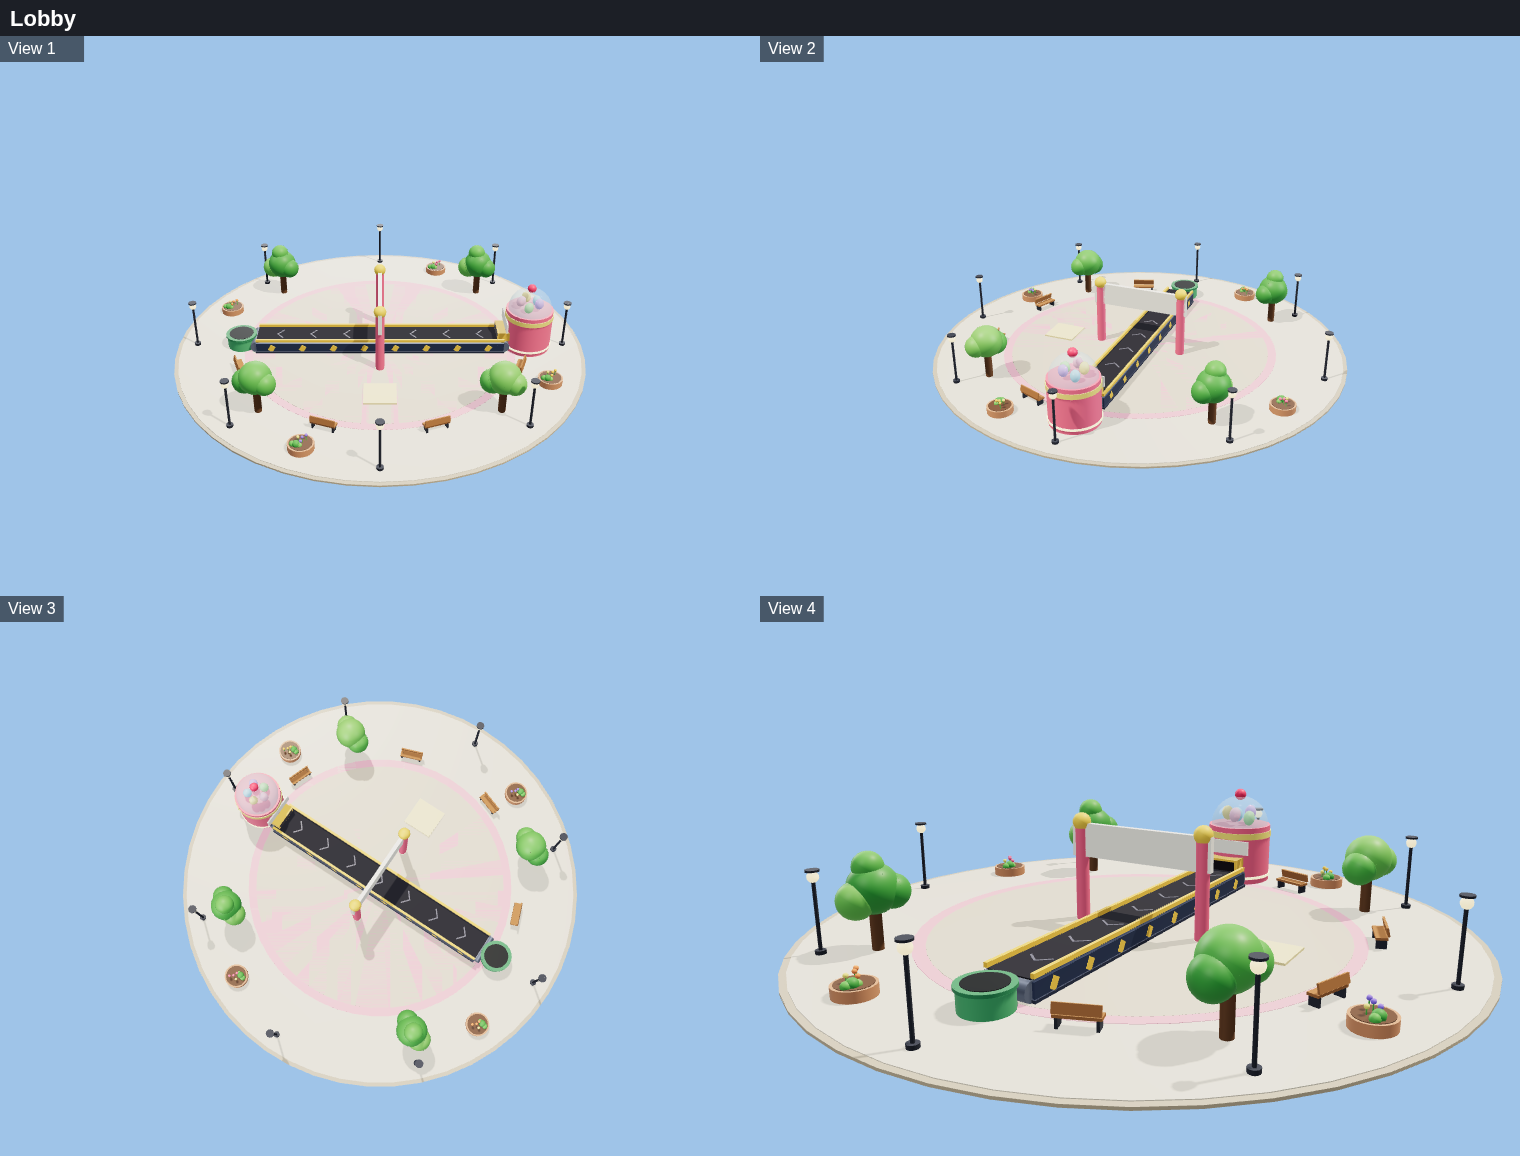
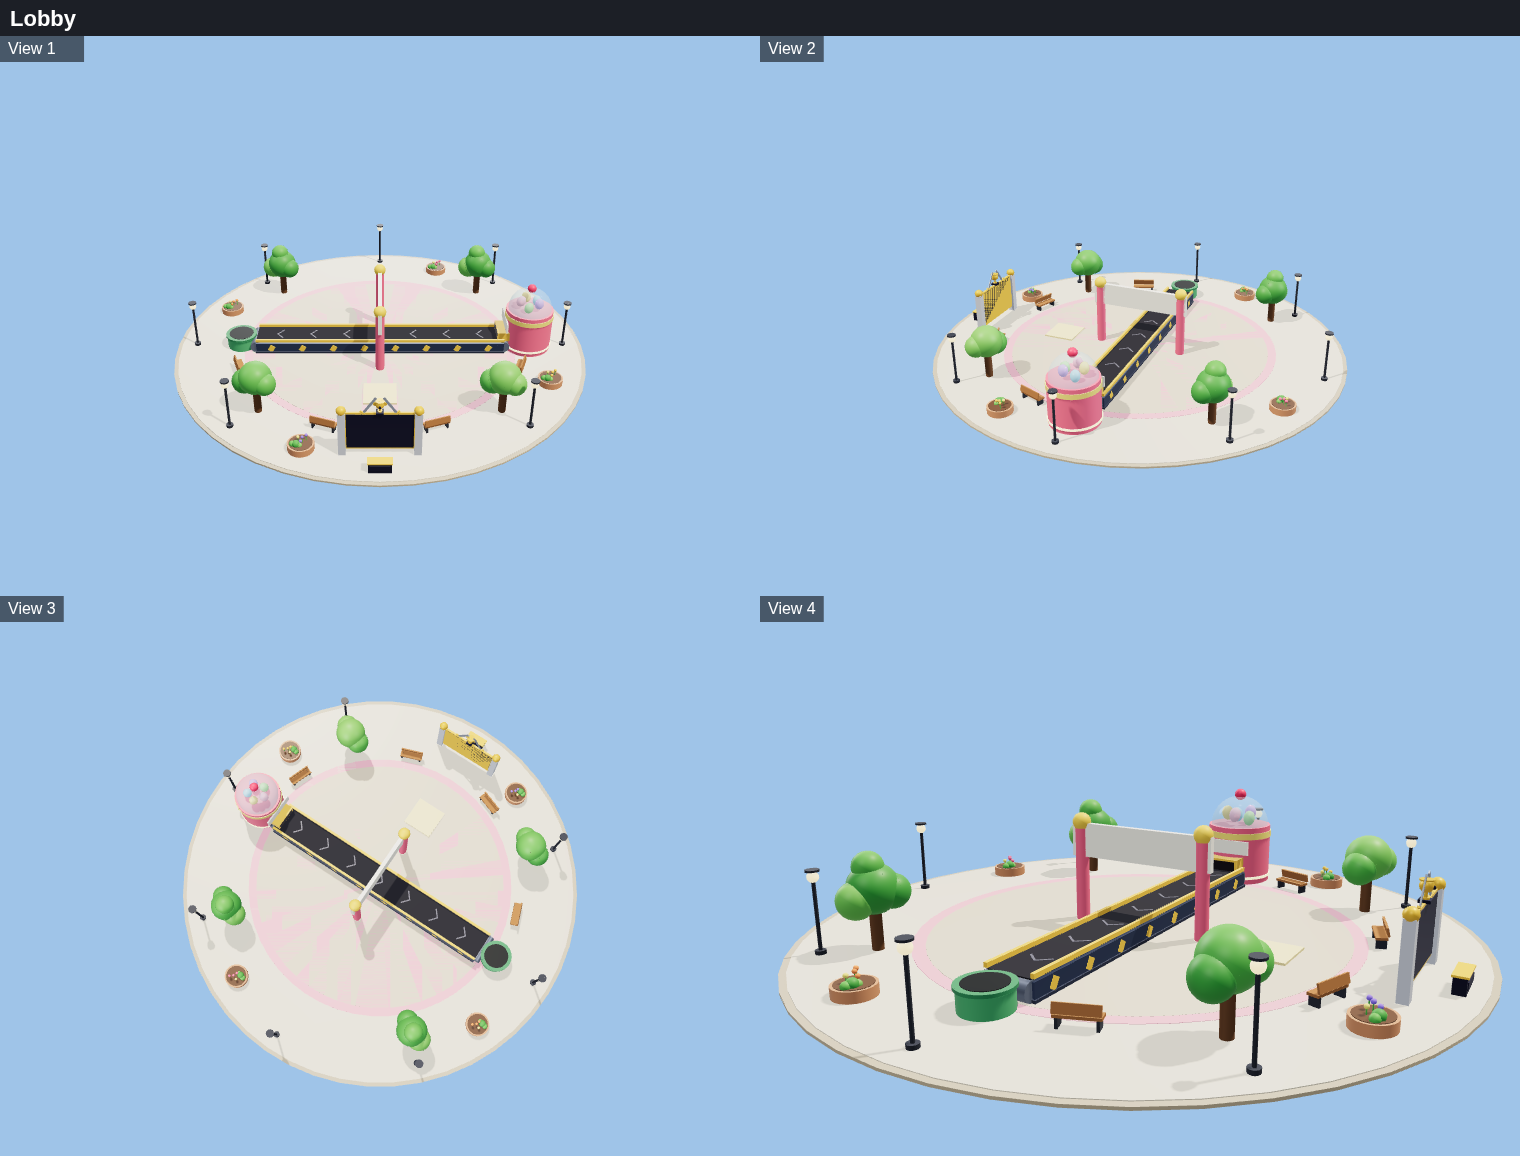
Test the arena; document Milestone 7
Claude-Session: https://claude.ai/code/session_0194nKWegpUdGRM2Uk6wcnmH

diff --git a/README.md b/README.md
@@ -34,6 +34,7 @@ Done so far:
 - Milestone 4: menus, tutorial and sounds.
 - Milestone 5: the Fusion Machine, hybrids and the Index.
 - Milestone 6: weather events and mutations.
+- Milestone 7: the creature arena, trophies and the leaderboard.
 
 See [CHANGELOG.md](CHANGELOG.md) for what each milestone adds.
 
@@ -76,6 +77,9 @@ src/
     Rarity.lua            rarity tiers, colors, weighted roll
     Growth.lua            growth stage math from plantedAt timestamps
     Weather.lua           the four weather events and their mutation rules
+    ArenaStats.lua        arena stats and abilities from rarity, mutation and fusion tags
+    ArenaBattle.lua       the deterministic auto-battle simulator
+    ArenaBots.lua         bot opponents that mirror your team
     Economy.lua           prices and income formulas (pedestal cost, sell value, income/s)
     Tags.lua              CollectionService tag names
     CreatureData.lua      the 21 creatures plus hybrid lookup (named recipes and fallbacks)
@@ -91,16 +95,16 @@ src/
     Services/             DataService, MapService, BaseService, CreatureService,
                           GrowthService, IncomeService, ConveyorService, CycleService,
                           RaidService, CombatService, TrapService, FusionService,
-                          WeatherService, TutorialService
+                          WeatherService, ArenaService, TutorialService
     Util/                 Net (validated, rate-limited remotes), Guard (validators), RateLimiter,
                           Ticker (the single server heartbeat), Character (distance checks)
-    World/                MapBuilder (lobby, conveyor, 8 bases), FusionMachine, Props
+    World/                MapBuilder (lobby, conveyor, 8 bases), FusionMachine, ArenaProps, Props
   client/                 -> StarterPlayer.StarterPlayerScripts
     Main.client.lua       bootstrap for controllers
     Controllers/          one per feature (HUD, creatures, conveyor, cycle, shields, raids,
-                          combat, menu, fusion, weather, sound, tutorial)
-    UI/                   Theme, Widgets, Window, Popup, Banner, Effects, Sounds
-    Screens/              Shop, Inventory, Index, Fusion, Settings windows
+                          combat, menu, fusion, weather, arena, sound, tutorial)
+    UI/                   Theme, Widgets, Window, Popup, Banner, Effects, Sounds, BattleView
+    Screens/              Shop, Inventory, Index, Fusion, Arena, Settings windows
     State/                client-side state: profile summary, settings, raid rules, your creatures
 tests/run.luau            headless tests (Lune)
 tools/preview/            renders models to PNG outside Studio (Lune + three.js)
@@ -159,6 +163,13 @@ First discoveries are saved in the global DataStore named in `Config.DiscoverySt
 They are announced to other servers on the MessagingService topic `Config.DiscoveryTopic`.
 In Studio, turn on **Game Settings → Security → Enable Studio Access to API Services** to
 test them for real. Without it, each server remembers its own first discoveries.
+
+## The arena and its leaderboard
+
+Battles need no second player: when nobody else is queueing, a bot steps in after a few
+seconds. To test PvP, start **Test → Clients and Servers** with 2 players and press "Find
+match" on both. The leaderboard uses the OrderedDataStore named in
+`Config.LeaderboardStoreName`. Without Studio API access it ranks the current server.
 
 ## Testing weather
 

diff --git a/CHANGELOG.md b/CHANGELOG.md
@@ -1,5 +1,56 @@
 # Changelog
 
+## [0.8.0] - Milestone 7: creature arena
+
+### Added
+- 1v1 arena battles (`ArenaService` and the Arena window, opened from the menu or the
+  lobby desk):
+  - Pick up to 3 adults, front fighter first, and find a match.
+  - A real player within `Config.ArenaMatchRange` trophies fights you if one is waiting;
+    otherwise a bot steps in after `Config.ArenaQueueWaitSec`.
+  - Creatures never leave their pedestals: the arena uses copies.
+  - The server checks the team (owned, at home, adults), and both FindMatch and
+    CancelMatch are rate-limited. There is a cooldown between battles.
+- Stats (`ArenaStats`): HP and attack grow by `Config.ArenaTierGrowth` per rarity tier,
+  mutations add bonuses, and every fusion tag gives one special ability (25 abilities in
+  `Config.ArenaAbilities`, such as stun, dodge, shield, crit, heal, splash, burn and
+  revive). Hybrids bring the abilities of both parents.
+- Battles (`ArenaBattle`): a deterministic, seeded auto-battle that the server runs in one
+  go. Fastest acts first; there are crits, dodges, shields, burns, stuns, splash, thorns,
+  rage, revive and team buffs, and a round limit with a health-share tiebreak. The event
+  log is sent to the clients.
+- Bots (`ArenaBots`): they mirror your team's rarity tiers. Their strength grows slowly
+  with your trophies: new players win about 70%, veterans about 40%.
+- Battle playback (`UI/BattleView`):
+  - fighter cards with 3D models and health bars;
+  - attackers lunge and targets shake;
+  - damage, crit, miss, heal and burn numbers, ability callouts and KO stamps;
+  - Skip, and a result screen.
+- Rewards: `Config.ArenaWinTrophies` for a PvP win and `Config.ArenaBotWinTrophies` for a
+  bot win. Losing costs nothing. Trophies are saved, shown in leaderstats, and tracked with
+  arena win and battle counts.
+- Leaderboard:
+  - An OrderedDataStore (`Config.LeaderboardStoreName`) holds the top trophy counts across
+    servers.
+  - Writes are throttled and also happen on leave.
+  - The top 10 is shown on the lobby "ARENA CHAMPIONS" board and in the window's
+    Leaderboard tab.
+  - In Studio without API access it ranks the current server.
+- Arena ranks: Bronze 50, Silver 150, Gold 400, Diamond 1000. They unlock arena-only
+  cosmetics: an overhead title ("🥇 Gold Gladiator") seen by everyone, and a trophy statue
+  in your base.
+- The lobby has an arena board with crossed swords, a trophy, and a "BATTLE!" desk across
+  from the spawn.
+- `Guard.list` for validated array arguments. There's a fifth menu button: Arena.
+- Previews: `export.luau arena`.
+- Tests:
+  - stats and abilities for every fusion tag;
+  - battle determinism and sane logs;
+  - strong teams winning and mirror matches being a coin flip;
+  - bot win rates;
+  - `Guard.list`;
+  - arena data repair.
+
 ## [0.7.0] - Milestone 6: weather mutations
 
 ### Added
